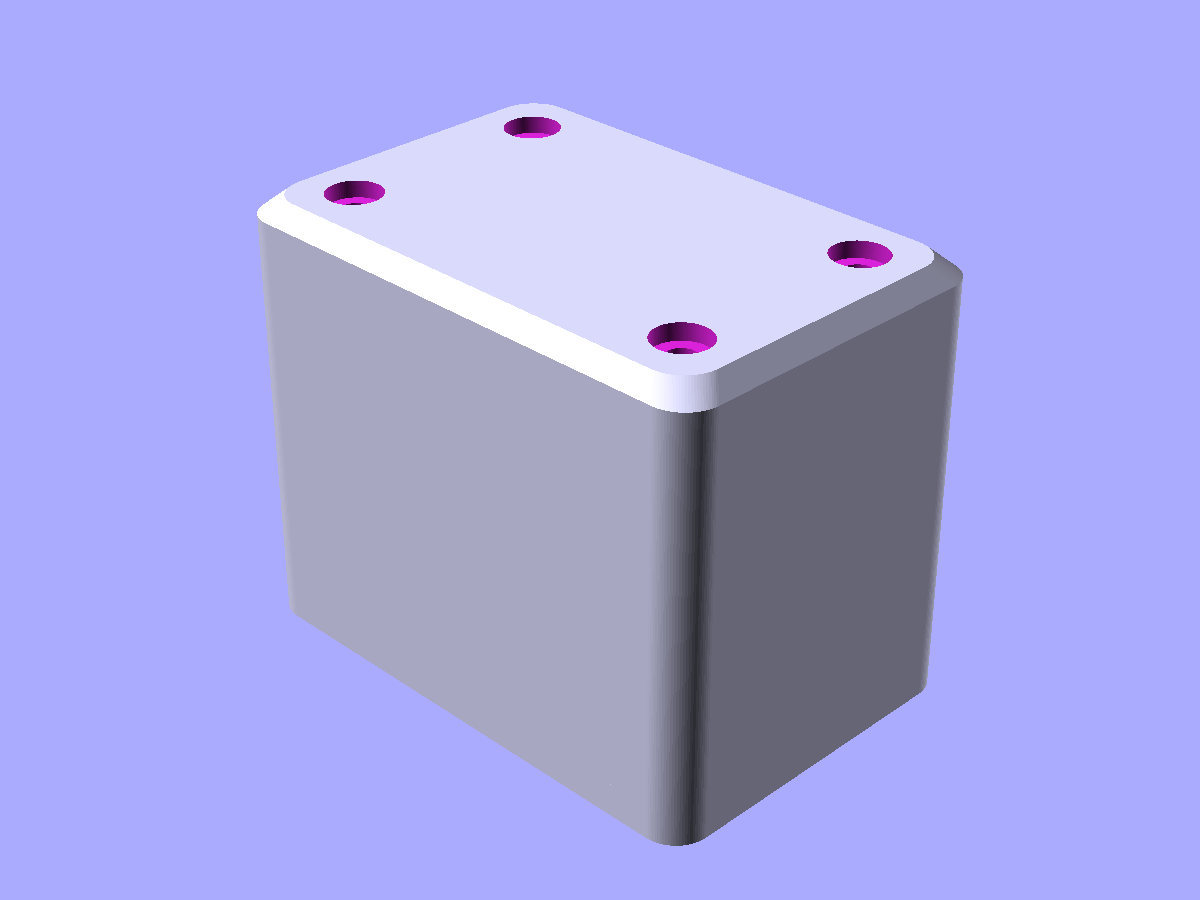
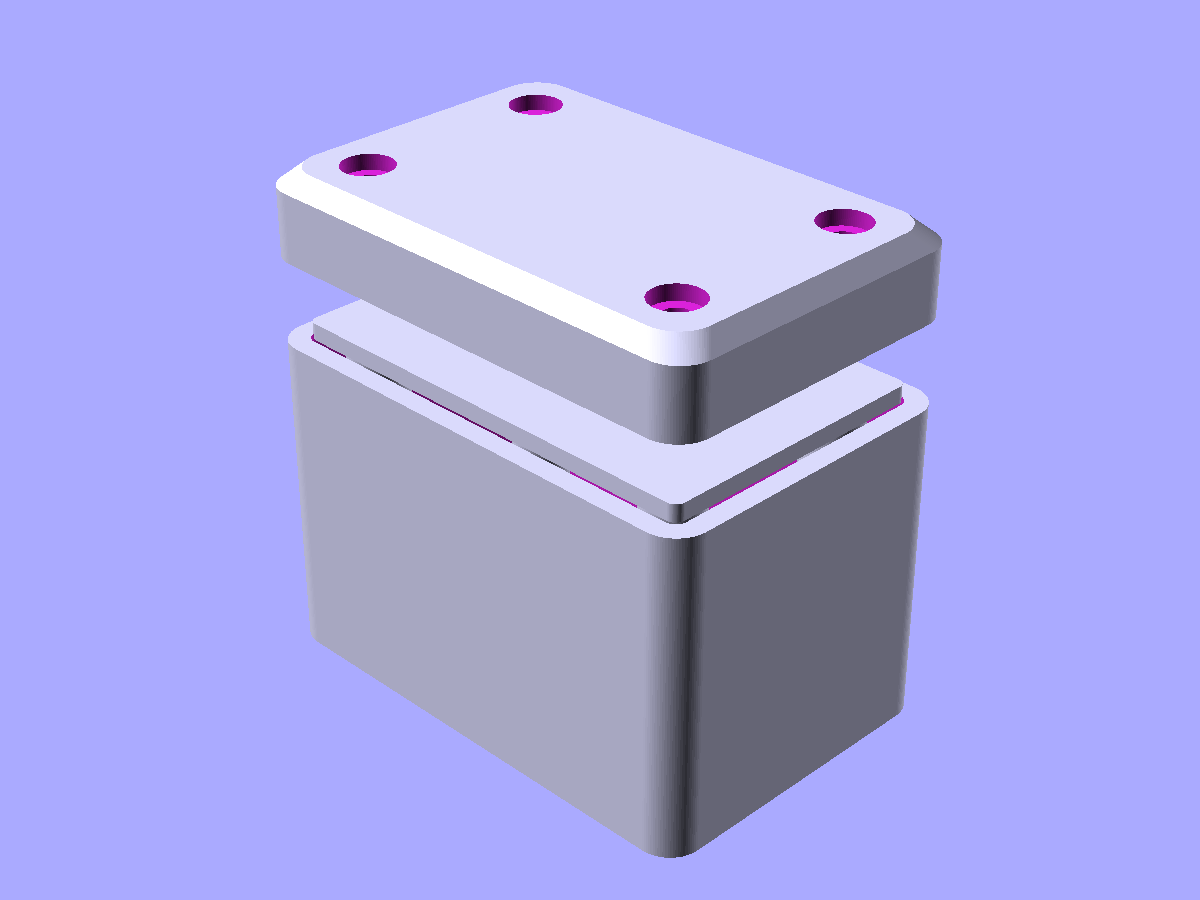
example/box-and-lid: float the lid above the box in display variant
Previous display seated the lid directly on the box, hiding the box's
centering lip and the lid's underside cavity. Floating the lid one
lid-height above the box opens the gap so the lip and the pylon tops
are visible.

diff --git a/examples/box-and-lid.py b/examples/box-and-lid.py
@@ -235,9 +235,11 @@ class BoxAndLid(Design):
 
     @variant(fn=48)
     def display(self):
+        # Lid floats one lid-height above the box so the box's centering
+        # lip is visible between them.
         return union(
             self.box,
-            self.lid.up(self.box.height),
+            self.lid.up(self.box.height + self.lid.height),
         )
 
 
